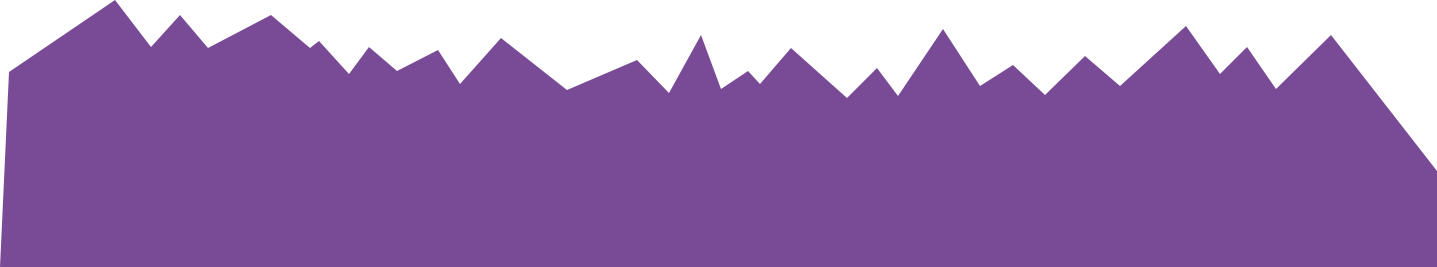
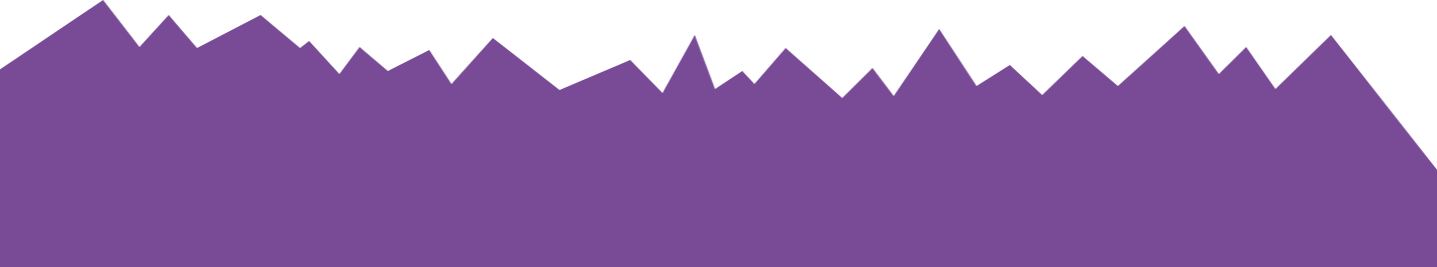
test

diff --git a/scripts/script.js b/scripts/script.js
@@ -1,3 +1,4 @@
+var game;
 var colors = {
   // primary: '#f9dc19',
   primary: 'rgba(255, 255, 255, 0)',
@@ -11,19 +12,56 @@ var colors = {
 };
 var pressedKeys = {};
 
-var game = new Game();
+var IMG = {
+  ennemyBlue: './assets/ennemy-blue.png',
+  ennemyBrown: './assets/ennemy-brown.png',
+  ennemyPink: './assets/ennemy-pink.png',
+  ennemyYellow: './assets/ennemy-yellow.png',
+  forestBack: './assets/forest-back.png',
+  forestFront: './assets/forest-front.png',
+  heartFull: './assets/heart-full.png',
+  heartEmpty: './assets/heart-empty.png',
+  hillFront: './assets/hill-front.png',
+  hillBack: './assets/hill-back.png',
+  mountainBack: './assets/mountain-back.png',
+  mountainFront: './assets/mountain-front.png',
+  mountainMiddle: './assets/mountain-middle.png',
+  shotCircle: './assets/shot-circle.png',
+  shotRainbow: './assets/shot-rainbow.png',
+  unicorn: './assets/unicorn.png',
+  unicornRainbow: './assets/unicorn-rainbow.png',
+  restart: './assets/return.png',
+  information: './assets/information.png'
+};
+var imagesCount = Object.keys(IMG).length;
+var loadedImagesCount = 0;
 
-// Boutons des modals
+for (var key in IMG) {
+  var image = new Image();
+  image.src = IMG[key];
+  image.onload = function () {
+    loadedImagesCount++;
+    console.log(loadedImagesCount, imagesCount);
+    if (loadedImagesCount === imagesCount) {
+      console.log('toto');
+      game = new Game();
+      openingModal.style.width = game.getSize().canvasWidth + 'px';
+      openingModal.style.height = game.getSize().canvasHeight + 'px';
+    }
+  }
+}
+// Modals
 var openingModal = document.getElementById('opening-modal');
+var endMessageModalContainer = document.getElementById('end-message-modal-container');
+// Boutons des modals
 var startGameButton = document.getElementById('start-game-button');
 var skipGameButton = document.getElementById('skip-game-button');
-var endMessageModalContainer = document.getElementById('end-message-modal-container');
 var restartButton = document.getElementById('restart');
 var cvPartsUnlockedButton = document.getElementById('cv-parts-unlocked');
 var showCvButton = document.getElementById('show-cv');
 var contactButton = document.getElementById('contact');
 
-// Event listeners sur les touches du clavier et souris
+// Event listeners sur les touches du clavier
 window.addEventListener('keydown', function (event) {
   event.preventDefault();
   pressedKeys[event.key] = true;
@@ -40,11 +78,6 @@ cvPartsUnlockedButton.addEventListener('click', function (event) {
   cvPartsContainer.style.width = game.getSize().canvasWidth + 'px';
   cvPartsContainer.style.height = game.getSize().canvasHeight + 'px';
   cvPartsContainer.className = 'show';
-});
-
-window.addEventListener('load', function () {
-  openingModal.style.width = game.getSize().canvasWidth + 'px';
-  openingModal.style.height = game.getSize().canvasHeight + 'px';
 });
 
 startGameButton.addEventListener('click', function () {
@@ -96,17 +129,17 @@ function getImageSize (element) {
   }
 };
 
-function drawImg (config) {
-  var image = new Image();
-  image.src = game.getImage().config.src;
-  this.context.drawImage(image, this.x, this.y);
-}
+// function drawImg (config) {
+//   var image = new Image();
+//   image.src = game.getImage().config.src;
+//   this.context.drawImage(image, this.x, this.y);
+// }
 
-function insertAsset (asset) {
-  var asset = new Image();
-  asset.src = config.asset;
-  this.context.drawImage(asset, 0, config.canvasHeight - getImageSize(asset).height);
-};
+// function insertAsset (asset) {
+//   var asset = new Image();
+//   asset.src = config.asset;
+//   this.context.drawImage(asset, 0, config.canvasHeight - getImageSize(asset).height);
+// };
 
 // Créer une modal
 function showEndMessage (config) {

diff --git a/scripts/background.js b/scripts/background.js
@@ -13,52 +13,57 @@ function Background (config) {
 
   var mountainBack = new Image();
   mountainBack.src = config.assets.mountainBack;
+  var mountainBackHeight = getImageSize(mountainBack).height
 
   var mountainMiddle = new Image();
   mountainMiddle.src = config.assets.mountainMiddle;
+  var mountainMiddleHeight = getImageSize(mountainMiddle).height;
 
   var mountainFront = new Image();
   mountainFront.src = config.assets.mountainFront;
+  var mountainFrontHeight = getImageSize(mountainFront).height;
 
   var forestBack = new Image();
   forestBack.src = config.assets.forestBack;
+  var forestBackHeight = getImageSize(forestBack).height;
 
   var forestFront = new Image();
   forestFront.src = config.assets.forestFront;
+  var forestFrontHeight = getImageSize(forestFront).height;
 
   var hillBack = new Image();
   hillBack.src = config.assets.hillBack;
+  var hillBackHeight = getImageSize(hillBack).height;
 
   var hillFront = new Image();
   hillFront.src = config.assets.hillFront;
+  var hillFrontHeight = getImageSize(hillFront).height;
 
   this.render = function () {
     // Background colors(sky)
     this.context.fillStyle = gradientBlue;
     this.context.fillRect(0, 0, config.canvasWidth, config.canvasHeight);
+
     this.context.fillStyle = 'rgb(137, 80, 173)';
     this.context.fillRect(0, config.canvasHeight - pinkBackgroundHeight, config.canvasWidth, pinkBackgroundHeight);
+
     this.context.fillStyle = gradientPink;
     this.context.fillRect(0, config.canvasHeight - pinkBackgroundHeight - pinkGradientBackgroundHeight, config.canvasWidth, pinkGradientBackgroundHeight);
     // Background assets
-    // context.drawImage(mountainMiddle, 0, config.canvasHeight - getImageSize(mountainMiddle).height);
-    createAssetsPattern(this.context, config, mountainMiddle);
-    this.context.drawImage(mountainFront, 0, config.canvasHeight - getImageSize(mountainFront).height);
-    this.context.drawImage(mountainBack, 0, config.canvasHeight - getImageSize(mountainBack).height);
-    this.context.drawImage(forestBack, 0, config.canvasHeight - getImageSize(forestBack).height);
-    this.context.drawImage(forestFront, 0, config.canvasHeight - getImageSize(forestFront).height);
-    this.context.drawImage(hillBack, 0, config.canvasHeight - getImageSize(hillBack).height);
-    createAssetsPattern(this.context, config, hillFront);
-    // this.context.drawImage(hillFront, 0, config.canvasHeight - getImageSize(hillFront).height);
+    createAssetsPattern(this.context, mountainBack, mountainBackHeight);
+    createAssetsPattern(this.context, mountainMiddle, mountainMiddleHeight);
+    createAssetsPattern(this.context, mountainFront, mountainFrontHeight);
+    createAssetsPattern(this.context, forestBack, forestBackHeight);
+    createAssetsPattern(this.context, forestFront, forestFrontHeight);
+    createAssetsPattern(this.context, hillBack, hillBackHeight);
+    createAssetsPattern(this.context, hillFront, hillFrontHeight);
+  };
+  function createAssetsPattern (context, asset, assetHeight) {
+    var pattern = context.createPattern(asset, 'repeat-x');
+    context.save();
+    context.translate(0, config.canvasHeight - assetHeight)
+    context.fillStyle = pattern;
+    context.fillRect(0, 0, config.canvasWidth, assetHeight);
+    context.restore();
   }
 };
-
-function createAssetsPattern (context, config, asset) {
-  var pattern = context.createPattern(asset, 'repeat');
-  context.save();
-  context.translate(0, config.canvasHeight - getImageSize(asset).height)
-  context.fillStyle = pattern;
-  context.fillRect(0, 0, config.canvasWidth, 200);
-  context.restore();
-  console.log(config.canvasWidth);
-}

diff --git a/scripts/game.js b/scripts/game.js
@@ -19,28 +19,6 @@ function Game () {
   var BOSS_MAXY = canvasWidth;
   var SPEED = 20;
 
-  var IMG = {
-    ennemyBlue: './assets/ennemy-blue.png',
-    ennemyBrown: './assets/ennemy-brown.png',
-    ennemyPink: './assets/ennemy-pink.png',
-    ennemyYellow: './assets/ennemy-yellow.png',
-    forestBack: './assets/forest-back.png',
-    forestFront: './assets/forest-front.png',
-    heartFull: './assets/heart-full.png',
-    heartEmpty: './assets/heart-empty.png',
-    hillFront: './assets/hill-front.png',
-    hillBack: './assets/hill-back.png',
-    mountainBack: './assets/mountain-back.png',
-    mountainFront: './assets/mountain-front.png',
-    mountainMiddle: './assets/mountain-middle.png',
-    shotCircle: './assets/shot-circle.png',
-    shotRainbow: './assets/shot-rainbow.png',
-    unicorn: './assets/unicorn.png',
-    unicornRainbow: './assets/unicorn-rainbow.png',
-    restart: './assets/return.png',
-    information: './assets/information.png'
-  };
-
   var background = new Background({
     canvasWidth: canvasWidth,
     canvasHeight: canvasHeight,
@@ -207,16 +185,16 @@ function Game () {
           rank: gameStage,
           onDead(gameStage) {
             switch (gameStage) {
-              case 1:
+              case 2:
                 console.log('compétences');
                 break;
-              case 2:
+              case 3:
                 console.log('formations');
                 break;
-              case 3:
+              case 4:
                 console.log('expériences');
                 break;
-              case 4:
+              case 5:
                 console.log('likes');
                 break;
             }
@@ -232,6 +210,7 @@ function Game () {
           newScore: newScore
         }));
         gameStage++;
+        console.log(gameStage);
         createBoss = true;
       }
     }
